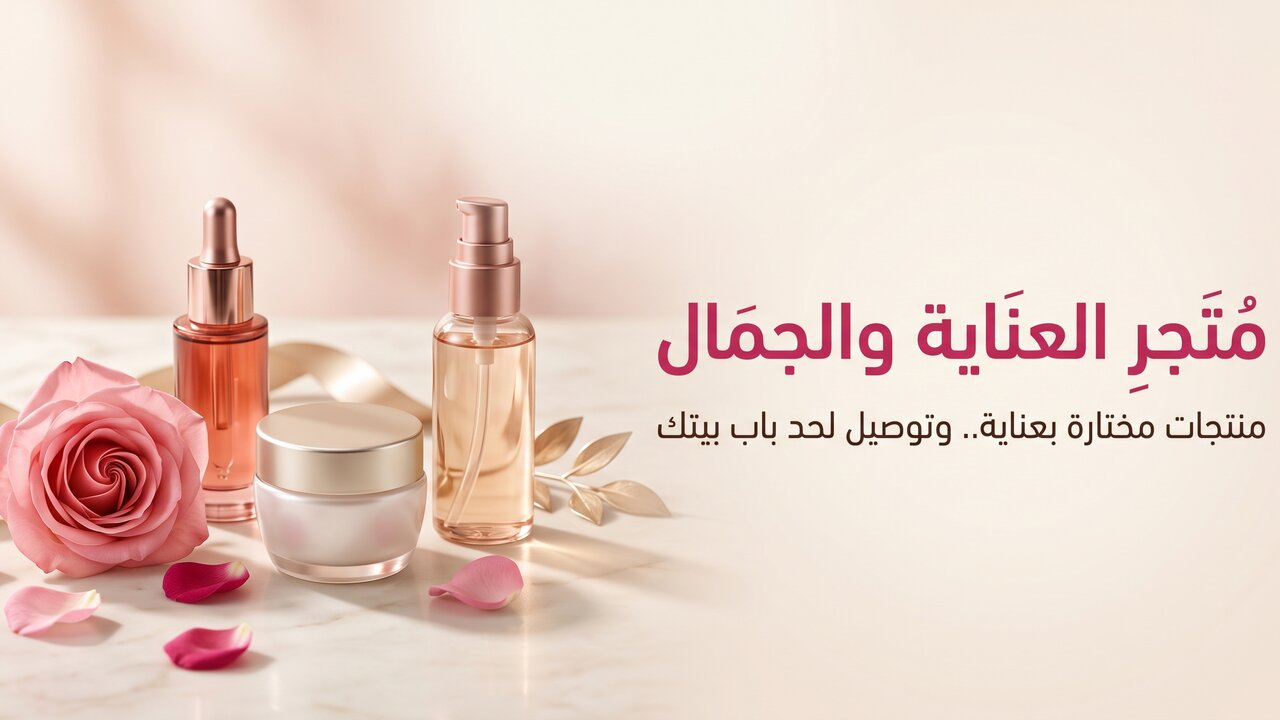
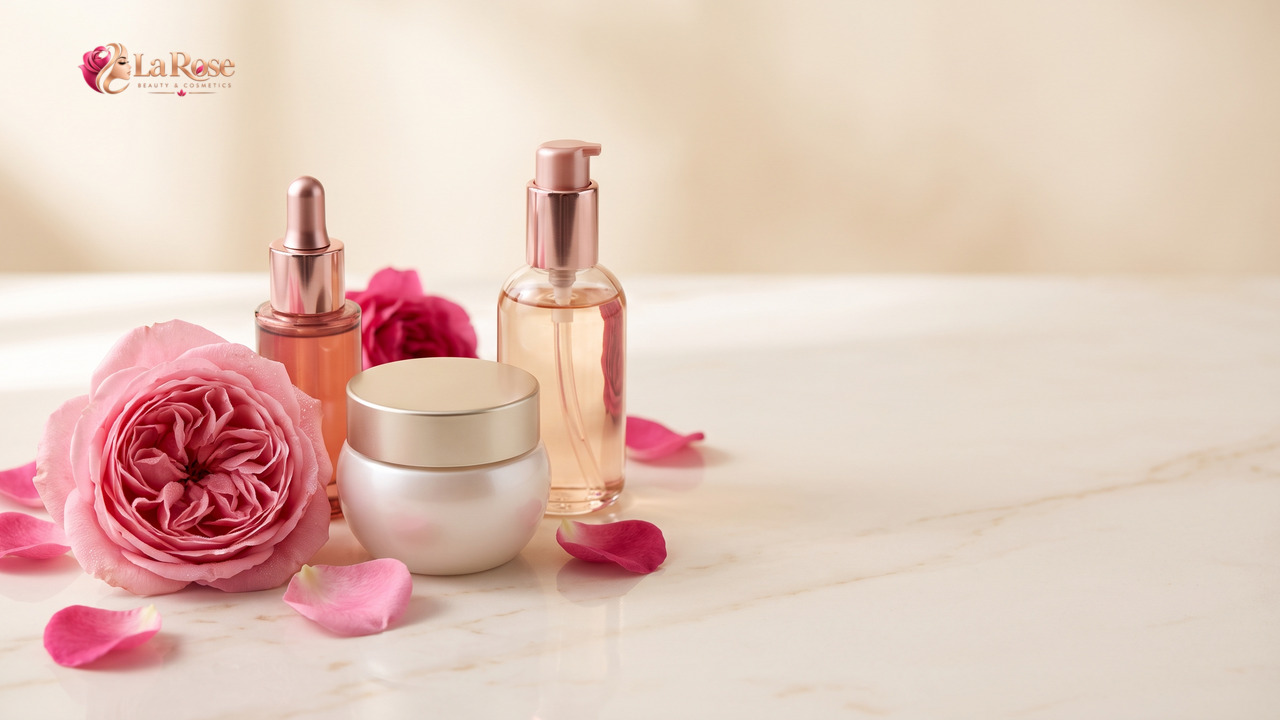
fix: update larose beauty showcase image
Update the image files to reflect recent metadata or source changes.

diff --git a/src/components/AiChatWidget.tsx b/src/components/AiChatWidget.tsx
@@ -30,8 +30,14 @@ const QUICK_PROMPTS_EN = [
 
 export const AiChatWidget: React.FC<AiChatWidgetProps> = ({ lang }) => {
   const [isOpen, setIsOpen] = useState(false);
+  const [hasUserClosed, setHasUserClosed] = useState(false);
+  const [showHesitationPrompt, setShowHesitationPrompt] = useState(false);
   const [inputMessage, setInputMessage] = useState('');
   const [isLoading, setIsLoading] = useState(false);
+  const lastActivityRef = useRef(Date.now());
+  const autoOpenTimerRef = useRef<NodeJS.Timeout | null>(null);
+  const idleCheckIntervalRef = useRef<NodeJS.Timeout | null>(null);
+
   const [messages, setMessages] = useState<Message[]>([
     {
       id: 'welcome',
@@ -54,6 +60,67 @@ export const AiChatWidget: React.FC<AiChatWidgetProps> = ({ lang }) => {
       scrollToBottom();
     }
   }, [messages, isOpen]);
+
+  // 1. Auto-open after 2 minutes (120,000 ms) with warm greeting if user hasn't closed it
+  useEffect(() => {
+    autoOpenTimerRef.current = setTimeout(() => {
+      setIsOpen((alreadyOpen) => {
+        if (!alreadyOpen && !hasUserClosed) {
+          setMessages((prev) => {
+            if (prev.some((m) => m.id === 'auto-2min-greeting')) return prev;
+            return [
+              ...prev,
+              {
+                id: 'auto-2min-greeting',
+                role: 'assistant',
+                content:
+                  lang === 'ar'
+                    ? 'أهلاً بك مجدداً يا فندم! 👋\nأنا أحمد، موظف المبيعات والدعم الفني في WebStack.\n\nلاحظت تصفحك لخدماتنا وسابقة أعمالنا.. يسعدني مساعدتك في اختيار الباقة الأنسب لمشروعك، أو حساب التكلفة الدقيقة لمتجرك أو موقعك المخصص من الصفر 100% بدون أي قوالب معلبة! كيف يمكنني مساعدتك؟'
+                    : 'Hello again! 👋\nI am Ahmed, your dedicated WebStack support & sales engineer.\n\nI noticed you browsing our solutions.. Would you like any assistance regarding your custom website or store project?',
+                timestamp: new Date().toLocaleTimeString([], { hour: '2-digit', minute: '2-digit' })
+              }
+            ];
+          });
+          return true;
+        }
+        return alreadyOpen;
+      });
+    }, 120000); // 2 minutes
+
+    return () => {
+      if (autoOpenTimerRef.current) clearTimeout(autoOpenTimerRef.current);
+    };
+  }, [hasUserClosed, lang]);
+
+  // 2. Track activity and detect hesitation/idle if user closed chat
+  useEffect(() => {
+    const recordActivity = () => {
+      lastActivityRef.current = Date.now();
+    };
+
+    window.addEventListener('mousemove', recordActivity, { passive: true });
+    window.addEventListener('scroll', recordActivity, { passive: true });
+    window.addEventListener('keydown', recordActivity, { passive: true });
+    window.addEventListener('click', recordActivity, { passive: true });
+
+    idleCheckIntervalRef.current = setInterval(() => {
+      if (hasUserClosed && !isOpen && !showHesitationPrompt) {
+        const idleDuration = Date.now() - lastActivityRef.current;
+        // User has been idle / hesitant on the page for 50 seconds after closing
+        if (idleDuration >= 50000) {
+          setShowHesitationPrompt(true);
+        }
+      }
+    }, 10000);
+
+    return () => {
+      window.removeEventListener('mousemove', recordActivity);
+      window.removeEventListener('scroll', recordActivity);
+      window.removeEventListener('keydown', recordActivity);
+      window.removeEventListener('click', recordActivity);
+      if (idleCheckIntervalRef.current) clearInterval(idleCheckIntervalRef.current);
+    };
+  }, [hasUserClosed, isOpen, showHesitationPrompt]);
 
   const generateLocalResponse = (text: string): string => {
     const lower = text.toLowerCase();
@@ -173,11 +240,62 @@ export const AiChatWidget: React.FC<AiChatWidgetProps> = ({ lang }) => {
 
   return (
     <>
-      {/* Floating Toggle Button */}
+      {/* Hesitation Prompt: Appears on the right ONLY if user closed chat and has been stuck / hesitant */}
+      {showHesitationPrompt && !isOpen && (
+        <div className="fixed bottom-24 right-6 z-50 max-w-xs sm:max-w-sm animate-in fade-in slide-in-from-bottom-2 duration-300 !left-auto">
+          <div className="bg-[#0B0F19] text-white p-3.5 rounded-2xl border border-amber-400/60 shadow-[0_15px_40px_rgba(0,0,0,0.85)] relative">
+            <button
+              onClick={() => setShowHesitationPrompt(false)}
+              className="absolute top-2.5 start-2.5 text-slate-400 hover:text-white p-1 rounded-lg hover:bg-slate-800 transition-colors"
+              aria-label="Close prompt"
+            >
+              <X className="w-3.5 h-3.5" />
+            </button>
+            <div className="flex items-start gap-2.5">
+              <div className="w-8 h-8 rounded-xl bg-gradient-to-tr from-[#DC2626] to-[#D97706] flex items-center justify-center shrink-0 mt-0.5 text-white shadow-md">
+                <Bot className="w-4 h-4" />
+              </div>
+              <div className="text-xs pe-4">
+                <div className="font-bold text-amber-300 mb-1 flex items-center gap-1.5">
+                  <span>{lang === 'ar' ? 'هل محتار في خطوتك القادمة؟' : 'Need help with your next step?'}</span>
+                  <Sparkles className="w-3 h-3 text-amber-400" />
+                </div>
+                <p className="text-slate-300 text-[11px] leading-relaxed mb-2.5">
+                  {lang === 'ar'
+                    ? 'أنا هنا لمساعدتك! تفضل بسؤالي عن أي استفسار أو لمعرفة تكلفة مشروعك بدقة بدون أي التزام.'
+                    : 'I am here to help! Ask me anything about your project requirements or get a quick tailored cost estimate.'}
+                </p>
+                <div className="flex items-center gap-2">
+                  <button
+                    onClick={() => {
+                      setShowHesitationPrompt(false);
+                      setIsOpen(true);
+                    }}
+                    className="px-3 py-1.5 rounded-xl bg-gradient-to-r from-[#DC2626] to-[#D97706] text-white text-[11px] font-bold shadow-md hover:scale-105 active:scale-95 transition-all cursor-pointer"
+                  >
+                    {lang === 'ar' ? 'تحدث مع أحمد الآن' : 'Chat with Ahmed'}
+                  </button>
+                  <button
+                    onClick={() => setShowHesitationPrompt(false)}
+                    className="px-2.5 py-1.5 rounded-xl text-slate-400 hover:text-white text-[11px] transition-colors cursor-pointer"
+                  >
+                    {lang === 'ar' ? 'لاحقاً' : 'Later'}
+                  </button>
+                </div>
+              </div>
+            </div>
+          </div>
+        </div>
+      )}
+
+      {/* Floating Toggle Button (Always anchored to the RIGHT) */}
       {!isOpen && (
         <button
-          onClick={() => setIsOpen(true)}
-          className="fixed bottom-6 end-6 z-50 flex items-center gap-2.5 px-4 py-3 rounded-2xl bg-gradient-to-r from-[#DC2626] via-[#B91C1C] to-[#D97706] text-white font-bold text-sm shadow-[0_10px_30px_rgba(220,38,38,0.4)] border border-amber-400/40 hover:scale-105 transition-all group cursor-pointer"
+          onClick={() => {
+            setIsOpen(true);
+            setShowHesitationPrompt(false);
+          }}
+          className="fixed bottom-6 right-6 z-50 !left-auto flex items-center gap-2.5 px-4 py-3 rounded-2xl bg-gradient-to-r from-[#DC2626] via-[#B91C1C] to-[#D97706] text-white font-bold text-sm shadow-[0_10px_30px_rgba(220,38,38,0.4)] border border-amber-400/40 hover:scale-105 transition-all group cursor-pointer"
           aria-label="Open AI Customer Service"
         >
           <div className="relative">
@@ -194,9 +312,9 @@ export const AiChatWidget: React.FC<AiChatWidgetProps> = ({ lang }) => {
         </button>
       )}
 
-      {/* Chat Window Modal */}
+      {/* Chat Window Modal (Always anchored to the RIGHT) */}
       {isOpen && (
-        <div className="fixed bottom-4 end-4 sm:bottom-6 sm:end-6 z-50 w-[95vw] sm:w-[410px] h-[580px] max-h-[85vh] rounded-2xl bg-[#0B0F19] border border-amber-500/30 shadow-[0_20px_60px_rgba(0,0,0,0.85)] flex flex-col overflow-hidden backdrop-blur-2xl animate-in fade-in zoom-in-95 duration-200">
+        <div className="fixed bottom-4 right-4 sm:bottom-6 sm:right-6 z-50 !left-auto w-[95vw] sm:w-[410px] h-[580px] max-h-[85vh] rounded-2xl bg-[#0B0F19] border border-amber-500/30 shadow-[0_20px_60px_rgba(0,0,0,0.85)] flex flex-col overflow-hidden backdrop-blur-2xl animate-in fade-in zoom-in-95 duration-200">
           
           {/* Header */}
           <div className="p-4 bg-gradient-to-r from-slate-900 via-slate-900 to-[#1A1215] border-b border-amber-500/20 flex items-center justify-between">
@@ -221,7 +339,12 @@ export const AiChatWidget: React.FC<AiChatWidgetProps> = ({ lang }) => {
 
             <div className="flex items-center gap-1.5">
               <button
-                onClick={() => setIsOpen(false)}
+                onClick={() => {
+                  setIsOpen(false);
+                  setHasUserClosed(true);
+                  setShowHesitationPrompt(false);
+                  lastActivityRef.current = Date.now();
+                }}
                 className="p-1.5 rounded-lg text-slate-400 hover:text-white hover:bg-slate-800 transition-colors cursor-pointer"
                 aria-label="Close chat"
               >

diff --git a/src/data/projects.ts b/src/data/projects.ts
@@ -26,7 +26,7 @@ export const PORTFOLIO_PROJECTS: ProjectItem[] = [
     titleAr: 'متجر لاروز (Larose Store) - متجر إلكتروني حي',
     taglineEn: 'Live production e-commerce store for luxury fashion, cosmetics and lifestyle with smart cart and instant checkout',
     taglineAr: 'متجر إلكتروني حي متكامل للأزياء الراقية ومستحضرات التجميل مع سلة ذكية ودفع إلكتروني سريع',
-    image: '/assets/images/ecommerce_store_main.jpg',
+    image: '/assets/images/larose_beauty_showcase.jpg',
     category: 'ecommerce-demos',
     categoryLabelEn: 'Live Production Store',
     categoryLabelAr: 'متجر إلكتروني حي',
@@ -74,8 +74,37 @@ export const PORTFOLIO_PROJECTS: ProjectItem[] = [
       'حجز مقايسات واستشارات فورية عبر أزرار الواتساب التفاعلية',
       'تصميم راقٍ يعكس فخامة الهوية المعمارية للشركة مع سرعة تصفح فائقة'
     ],
-    liveUrl: 'https://alkemma-decor.salah-logistics.uk/',
-    whatsappMsg: 'مرحباً فريق WebStack، شاهدت موقع شركة القمة للديكور وأرغب في تصميم موقع مماثل لشركتي',
+    liveUrl: 'https://alkemma.codix.uk/',
+    whatsappMsg: 'مرحباً فريق WebStack، شاهدت موقع شركة القمة للديكور https://alkemma.codix.uk/ وأرغب في تصميم موقع مماثل لشركتي',
+    badge: 'موقع حي'
+  },
+  {
+    id: 'egypt-builders',
+    titleEn: 'Egypt Builders (EB) — General Contracting & Engineering',
+    titleAr: 'شركة إيجيبت بيلدرز (Egypt Builders) - مقاولات عامة وبناء',
+    taglineEn: 'Official corporate website for Egypt Builders: civil engineering, turn-key construction, architecture & infrastructure',
+    taglineAr: 'الموقع الرسمي لشركة إيجيبت بيلدرز (EB): مقاولات عامة، إنشاءات متكاملة، استشارات هندسية وتشطيبات كبرى',
+    image: '/assets/images/egypt_builders_showcase.jpg',
+    category: 'web-development',
+    categoryLabelEn: 'Corporate Website',
+    categoryLabelAr: 'موقع شركة رسمي',
+    metricsEn: 'Official Live Platform · Engineering Portfolio',
+    metricsAr: 'سابقة أعمال حية · مشاريع إنشائية كبرى',
+    tech: ['Corporate Architecture', 'High-Speed CDN', 'Bilingual UI', 'Project Galleries', 'Direct WhatsApp RFQ'],
+    featuresEn: [
+      'Official corporate web platform built by WebStack for Egypt Builders (EB)',
+      'High-definition architectural project portfolios across commercial & residential construction',
+      'Direct mobile RFQ and tender quotation workflows for enterprise clients',
+      'Bilingual Arabic/English presentation optimized for corporate credibility'
+    ],
+    featuresAr: [
+      'الموقع الرسمي لشركة إيجيبت بيلدرز للإنشاءات والمقاولات العامة صمم بواسطة WebStack',
+      'معرض هندسي متكامل للمشاريع الإنشائية والتجارية والسكنية وأعمال البنية التحتية',
+      'طلب عروض أسعار ومقايسات مباشرة عبر أزرار التواصل التفاعلية والواتساب',
+      'واجهة رسمية راقية متجاوبة بالكامل لتعزيز المصداقية لدى العملاء والشركات'
+    ],
+    liveUrl: 'https://egypt-builders.codix.uk/',
+    whatsappMsg: 'مرحباً فريق WebStack، شاهدت موقع شركة إيجيبت بيلدرز (Egypt Builders) https://egypt-builders.codix.uk/ وأرغب في تنفيذ موقع رسمي لشركتي',
     badge: 'موقع حي'
   },
   {
@@ -464,7 +493,7 @@ export const SERVICES_DATA: ServiceItem[] = [
     fullDescEn: 'We engineer your online store from the ground up tailored to your business model, without ready-made templates or restricted platforms. Includes dedicated consultation sessions walking step-by-step with you to analyze your workflow, seamless payment gateways, full operational control, and full year of hosting, domain, and technical support.',
     fullDescAr: 'نصمم ونبرمج متجرك الإلكتروني بالكامل من الصفر كوداً مخصصاً لاحتياجات تجارتك، بدون قوالب جاهزة أو قيود المنصات المؤجرة. نوفر لك جلسات استشارية متخصصة بنمشي فيها معك خطوة بخطوة لحد ما نحلل ونفهم طبيعة خدمتك وتجارتك ماشية إزاي، مع ربط جميع بوابات الدفع، وإدارة كل العمليات داخل متجرك، مع دومين واستضافة سحابية ودعم فني وصيانة مستمرة.',
     icon: 'ShoppingBag',
-    image: '/assets/images/ecommerce_store_main.jpg',
+    image: '/assets/images/larose_beauty_showcase.jpg',
     liveUrl: 'https://larose.salah-logistics.uk/',
     taglineEn: 'Every merchant has their unique workflow — built with zero templates',
     taglineAr: 'كل تاجر له نظامه الخاص — مبني بكود نظيف وبدون قوالب معلبة',
@@ -851,7 +880,7 @@ export const HOW_IT_WORKS_STEPS = [
 
 // 1. Live production client projects (المواقع والمتاجر الحية المنفذة لعملائنا)
 export const CLIENT_PROJECTS: ProjectItem[] = PORTFOLIO_PROJECTS.filter((p) =>
-  ['larose-store', 'alkemma-decor', 'clean-almithalia', 'elsharkawy-farm', 'handasiya-aluminum'].includes(p.id)
+  ['larose-store', 'alkemma-decor', 'egypt-builders', 'clean-almithalia', 'elsharkawy-farm', 'handasiya-aluminum'].includes(p.id)
 );
 
 // 2. Interactive turnkey demo stores (المتاجر الاستعراضية الجاهزة للمعاينة)

diff --git a/src/views/HomeView.tsx b/src/views/HomeView.tsx
@@ -245,7 +245,11 @@ export const HomeView: React.FC<HomeViewProps> = ({ lang, onSelectProject, onNav
                     {/* Prominent Click Prompt Overlay */}
                     <div className="absolute inset-0 bg-black/55 opacity-0 group-hover:opacity-100 transition-opacity duration-300 flex items-center justify-center p-4">
                       <div className="px-4 py-2.5 rounded-xl bg-gradient-to-r from-[#DC2626] to-[#D97706] text-white font-bold text-xs flex items-center gap-2 shadow-xl transform -translate-y-2 group-hover:translate-y-0 transition-transform">
-                        <span>{isAr ? 'اضغط لفتح المتجر الحي مباشرة' : 'Open Live Store Now'}</span>
+                        <span>
+                          {isAr
+                            ? (project.category === 'ecommerce-demos' ? 'اضغط لفتح المتجر الحي مباشرة' : 'اضغط لفتح الموقع الحي مباشرة')
+                            : (project.category === 'ecommerce-demos' ? 'Open Live Store Now' : 'Open Live Website Now')}
+                        </span>
                         <ExternalLink className="w-4 h-4" />
                       </div>
                     </div>

diff --git a/src/components/Footer.tsx b/src/components/Footer.tsx
@@ -123,12 +123,23 @@ export const Footer: React.FC<FooterProps> = ({ lang, onNavigate }) => {
               </li>
               <li>
                 <a
-                  href="https://alkemma-decor.salah-logistics.uk/"
+                  href="https://alkemma.codix.uk/"
                   target="_blank"
                   rel="noopener noreferrer"
                   className="hover:text-amber-300 transition-colors flex items-center gap-1.5"
                 >
                   <span>{isAr ? 'موقع شركة القمة للديكور' : 'Al Kemma Decor (Live)'}</span>
+                  <ExternalLink className="w-3 h-3 text-amber-400" />
+                </a>
+              </li>
+              <li>
+                <a
+                  href="https://egypt-builders.codix.uk/"
+                  target="_blank"
+                  rel="noopener noreferrer"
+                  className="hover:text-amber-300 transition-colors flex items-center gap-1.5"
+                >
+                  <span>{isAr ? 'موقع شركة إيجيبت بيلدرز' : 'Egypt Builders (Live)'}</span>
                   <ExternalLink className="w-3 h-3 text-amber-400" />
                 </a>
               </li>
